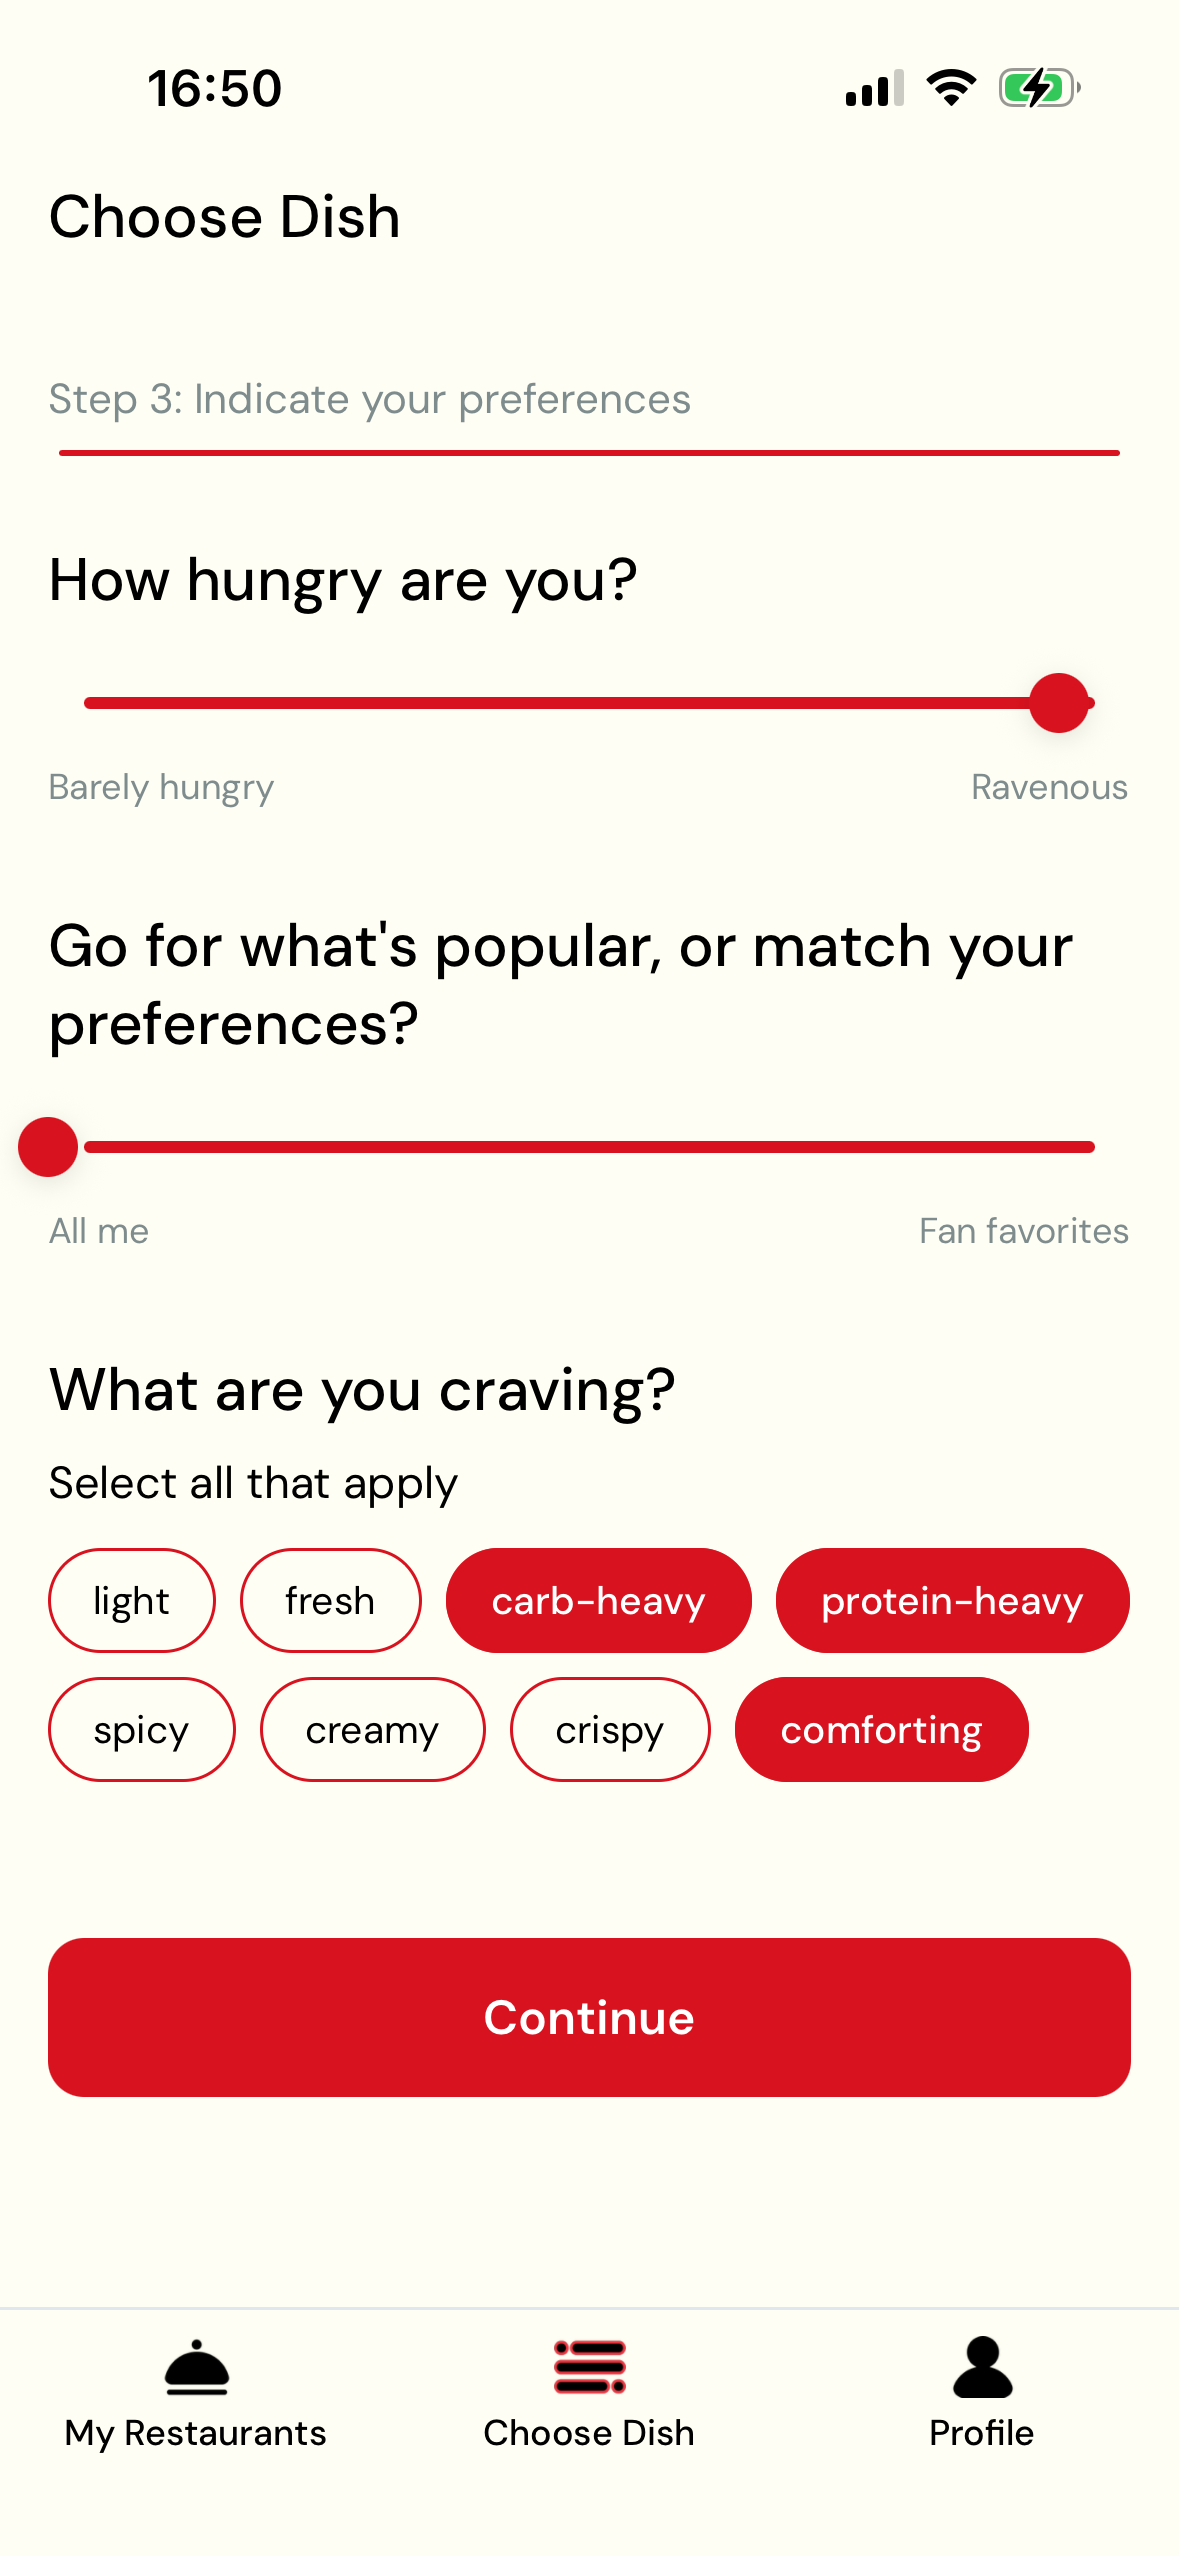
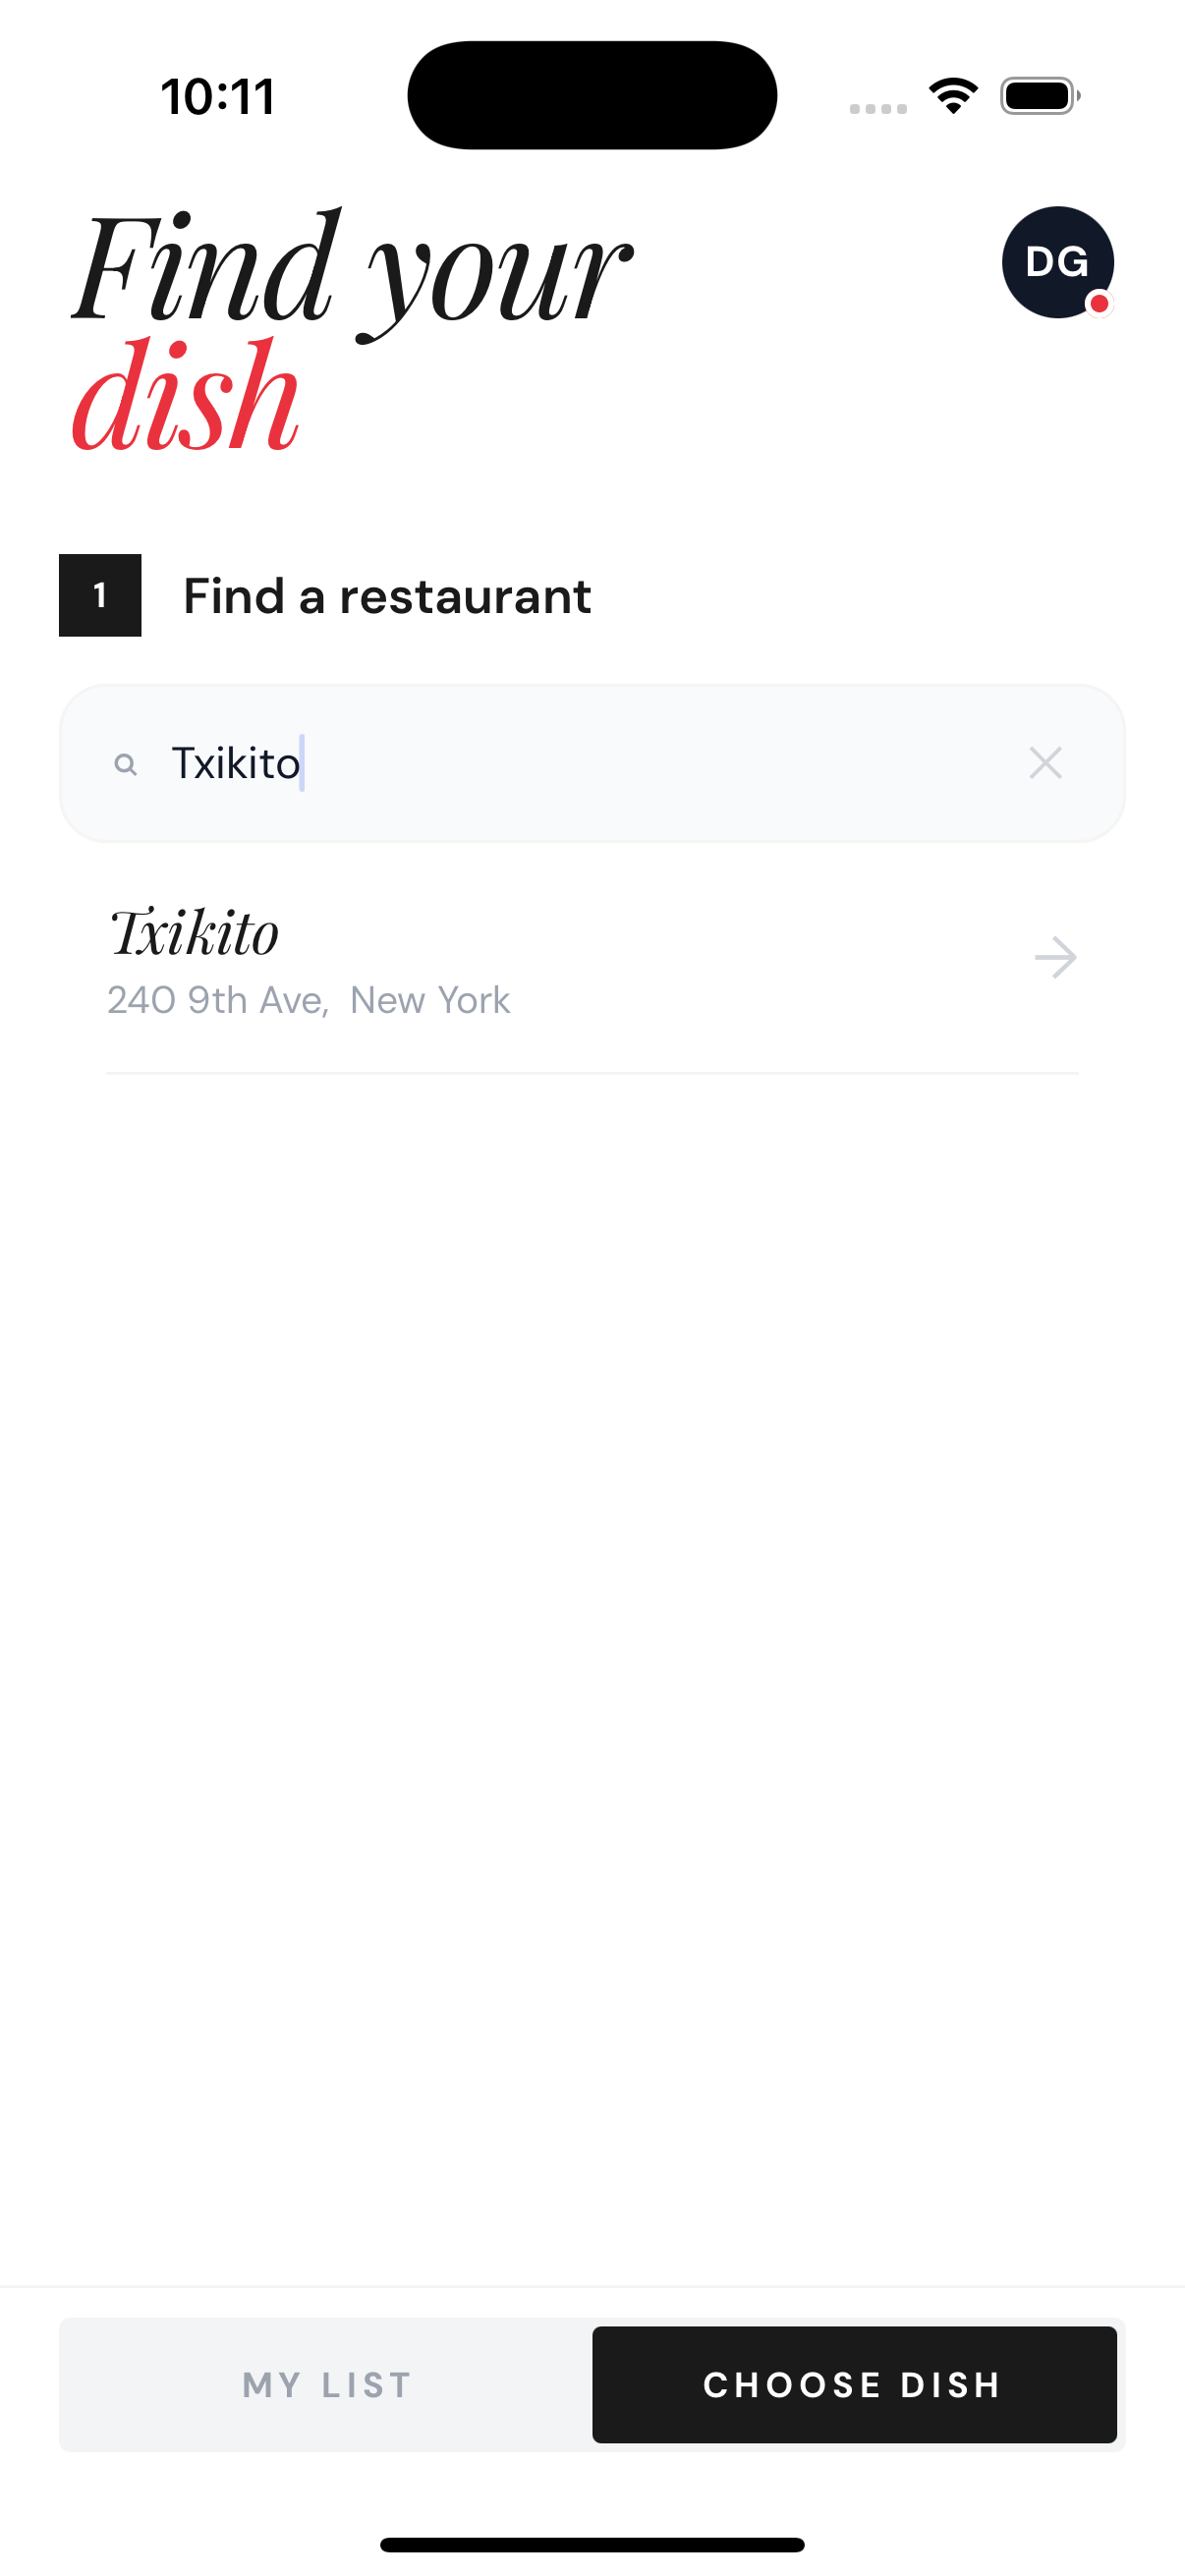
Menuto: rewrite project page with new content, screenshots, and iPhone mockups
New content from detailed writeup: agent-first recommendation engine,
5-stage pipeline, research foundations, key technical decisions, and
optimization work. 9 new screenshots in CSS iPhone bezels.

diff --git a/app/project/[slug]/page.tsx b/app/project/[slug]/page.tsx
@@ -13,6 +13,7 @@ type Section =
   | { type: 'pullquote'; text: string }
   | { type: 'image'; src: string; alt: string; caption?: string; aspect?: string }
   | { type: 'images'; items: { src: string; alt: string; caption?: string }[]; aspect?: string }
+  | { type: 'phones'; items: { src: string; alt: string; caption?: string }[]; label?: string }
   | { type: 'stats'; items: { value: string; label: string }[] }
   | { type: 'list'; label: string; items: string[] }
   | { type: 'subheader'; text: string; id?: string }
@@ -131,32 +132,31 @@ const PROJECTS: Record<string, Project> = {
     slug: 'menuto',
     no: '03',
     name: 'Menuto',
-    tagline: 'A full-stack AI dish recommendation app — solo-built end to end. Tell it your restaurants and taste preferences, it tells you what to order. Fully functional, deployed to TestFlight.',
+    tagline: 'Personalized restaurant dish recommendations powered by an LLM agent that learns your taste over time. Solo-built end to end: product, design, React Native frontend, FastAPI backend, and deployment.',
     year: '2024',
     role: 'Solo — Product · Design · Full-Stack',
     duration: 'Personal Project · End-to-End Ownership',
-    tools: 'React Native · Expo · FastAPI · OpenAI GPT-4o · Supabase · PostgreSQL · Google Places API · Tesseract OCR',
+    tools: 'React Native · Expo 53 · FastAPI · Google Gemini 2.5 Flash · Supabase · PostgreSQL · Google Places API',
     accentColor: '#D8131F',
     tags: ['Full-Stack', 'AI', 'Mobile'],
     icon: '/menuto-icon.png',
     externalLink: { href: 'https://github.com/defnegenc/menuto', label: 'View on GitHub ↗' },
-    secondaryLink: { href: 'https://testflight.apple.com', label: 'TestFlight ↗' },
     sections: [
       {
         type: 'text',
-        label: 'The Idea',
-        body: 'Restaurant reviews tell you where to eat. Nothing tells you what to order — especially at a place you\'ve never been. I wanted an app that knows your taste profile, browses the actual menu, and surfaces the right dishes for you specifically. So I built it, entirely solo: product vision, design, React Native frontend, FastAPI backend, database schema, LLM integration, and deployment.',
+        label: 'The Problem',
+        body: 'You\'re at a restaurant. You don\'t know what to order. Reviews tell you where to eat, but nothing tells you what to order once you\'re there. Menuto reads the menu, understands your preferences, and picks dishes for you, with personal explanations like "You mentioned you\'re craving something rich, and the reviewers specifically call out the truffle cream on this one." The more you use it, the smarter it gets.',
       },
       {
         type: 'pullquote',
-        text: 'I\'m always indecisive about what to order at restaurants. So I solved my own problem.',
+        text: 'Rate a dish, and the system learns not just that you liked it, but why, extracting taste signals from your feedback text and adjusting future recommendations accordingly.',
       },
       {
         type: 'stats',
         items: [
-          { value: '2', label: 'Codebases: FastAPI backend + React Native app' },
-          { value: '3', label: 'Tabs: My Restaurants, Choose Dish, Profile' },
-          { value: '60–80%', label: 'LLM cost reduction via model + prompt optimization' },
+          { value: '8', label: 'Signal sources per recommendation' },
+          { value: '5', label: 'Pipeline stages: parse → filter → enrich → select → learn' },
+          { value: '2', label: 'Codebases: FastAPI + React Native' },
           { value: '0', label: 'Team members — fully solo' },
         ],
       },
@@ -165,56 +165,84 @@ const PROJECTS: Record<string, Project> = {
         text: 'The App',
       },
       {
-        type: 'images',
-        aspect: '9/19.5',
+        type: 'phones',
+        label: 'Search, browse, and save restaurants. Tap Choose Dish to start the recommendation flow.',
         items: [
-          { src: '/addrestaurants.PNG', alt: 'Add Restaurants screen', caption: 'Add restaurants' },
-          { src: '/restaurantdetailscreen2.PNG', alt: 'Restaurant menu', caption: 'Browse menu' },
-          { src: '/choosedish1.PNG', alt: 'Choose Dish preferences', caption: 'Set preferences' },
+          { src: '/choosedish1.png', alt: 'Find your dish — search', caption: 'Search for a restaurant' },
+          { src: '/choosedish2.png', alt: 'Restaurant search results', caption: 'Find by name or location' },
+          { src: '/restaurantdetailscreen.png', alt: 'Restaurant detail with menu', caption: 'Browse the full menu' },
         ],
       },
       {
-        type: 'text',
-        label: 'User Flow',
-        body: 'Add up to 3 restaurants from Google Places (location-aware) → browse each restaurant\'s full menu, filtered by course (All / Starter / Main / Dessert), and save favorite dishes → open Choose Dish, confirm the restaurant and menu, then indicate preferences — how hungry you are, how much you want popular vs. personalized picks, and what you\'re craving (light, fresh, carb-heavy, protein-heavy, spicy, creamy, crispy, comforting) → AI loads your recommendations.',
+        type: 'phones',
+        label: 'Set your mood, cravings, hunger level, and how adventurous you\'re feeling. The agent uses all of it.',
+        items: [
+          { src: '/choosedish3.png', alt: 'Preference sliders', caption: 'Hunger and taste sliders' },
+          { src: '/choosedish4.png', alt: 'Craving and dining style', caption: 'Cravings and dining context' },
+          { src: '/dishesloading.png', alt: 'Agent thinking', caption: 'Browsing the kitchen' },
+        ],
       },
       {
-        type: 'images',
-        aspect: '9/19.5',
+        type: 'phones',
+        label: 'Get personalized picks with explanations, select what you\'re ordering, then rate after your meal.',
         items: [
-          { src: '/choosedish2.PNG', alt: 'Craving selector', caption: 'Craving chips' },
-          { src: '/myrestaurants.PNG', alt: 'My Restaurants', caption: 'Saved restaurants' },
-          { src: '/profiletop.PNG', alt: 'Profile', caption: 'Taste profile' },
+          { src: '/chosendishes.png', alt: 'Recommended dishes', caption: 'Your picks with reasons' },
+          { src: '/ratedishes.png', alt: 'Rate your dishes', caption: 'Rate and save favorites' },
+          { src: '/Your-Restaurants.png', alt: 'Saved restaurants', caption: 'Your restaurant list' },
         ],
       },
       {
         type: 'subheader',
-        text: 'The AI Pipeline',
+        text: 'The Recommendation Engine',
       },
       {
         type: 'text',
-        label: 'Menu Parsing',
-        body: 'The FastAPI backend accepts a menu image, URL, or raw text. Images go through Tesseract OCR; all inputs are structured by GPT-4o (vision) or GPT-4o-mini (text) into a typed JSON array: dish name, description, price, course category, ingredients, and dietary tags. The same `/upload-menu` endpoint handles all three input types via content-type detection. Low-confidence parses surface a user-correction flow rather than silently passing bad data downstream.',
+        label: 'Agent-First Architecture',
+        body: 'Rather than rigid scoring formulas, a Gemini agent receives all available signals about the user and reasons about what to recommend. An earlier version used 10 hand-tuned scoring components (personal taste: 0.30, sentiment: 0.17, etc.). The weights were identical for everyone and couldn\'t reason about context. A user who "looked at a dish 3 times without ordering" was scored the same as someone who "viewed it once." The agent sees the flag LOOKED AT BUT NEVER ORDERED and can reason about why. It also handles meal composition (don\'t recommend 3 pasta dishes) that pointwise scoring fundamentally cannot.',
       },
       {
         type: 'text',
-        label: 'Cost Optimization',
-        body: 'Initially used GPT-4 across all calls. After the first working build, I profiled the cost per request and systematically reduced it: switched text-based parsing to GPT-4o-mini, added max_tokens caps (300–1,500 depending on call type), and reduced the recommendation set from 8 to 5. Total cost reduction: 60–80% with no perceptible quality loss.',
+        label: 'The Pipeline',
+        body: 'Stage 1: Data gathering from 8 sources: parsed menu items, Google Places reviews (cached 14 days), review-based dish popularity via mention frequency, cross-user order counts, past ratings, behavioral signals (views/orders/favorites), Gemini-extracted taste keywords from feedback text, and embedding-based taste similarity (cosine similarity between the user\'s taste profile vector and each dish description, computed in 2 batch API calls). Stage 2: Dietary filtering with LLM-generated flags, explicit instructions to catch hidden ingredients (anchovy in Caesar dressing, fish sauce in Pad Thai, parmesan in pesto). Stage 3: Signal enrichment as readable flags: MATCHES YOUR TASTE, POPULAR (60%), WELL-REVIEWED. Stage 4: Agent selection with the full user narrative. Stage 5: Feedback loop where Gemini extracts taste signals from free-text ratings.',
+      },
+      {
+        type: 'text',
+        label: 'Research Foundations',
+        body: 'This approach was informed by Microsoft\'s RecAI framework (Zhao et al., ACM Web Conference 2024), the "LLM-as-brain, traditional-models-as-tools" pattern where traditional signals handle candidate generation and the LLM handles final reasoning. The serendipity slot (reserving one recommendation for something outside the user\'s usual picks) draws from the SERAL paper on filter bubble mitigation (Feb 2025). The implicit negative feedback model follows Hu, Koren & Volinsky\'s foundational work on collaborative filtering for implicit feedback datasets.',
       },
       {
         type: 'subheader',
-        text: 'Engineering Decisions',
+        text: 'Key Decisions',
       },
       {
         type: 'list',
-        label: 'Technical Highlights',
+        label: 'Why These Choices',
         items: [
-          'Mixed navigation — state-machine for top-level transitions (sign-in → onboarding → main app), React Navigation tabs only for the inner My Restaurants / Choose Dish / Profile views.',
-          'Zustand state management — typed slices for user preferences, current menu session, and recommendation state; no prop-drilling across screens.',
-          'Location-aware restaurant search — debounced Google Places autocomplete (300ms) with GPS; graceful degradation to city-level if permission denied.',
-          'Supabase/PostgreSQL schema — user preference vectors, dish favorites per restaurant, and restaurant menu cache; structured so ratings and preferences update asynchronously.',
-          'Dual AI models — GPT-4o vision for photo menus (richer context needed), GPT-4o-mini for text/URL parsing (cost-efficient, output quality equivalent).',
+          'Gemini embeddings over keyword matching — a user who likes "rich, umami, slightly spicy" food matches a miso-glazed dish even though no keywords overlap. Two API calls total: one for the taste profile, one batch for all candidates.',
+          'Supabase Auth over Clerk — cost. Supabase Auth is free (50k MAUs) and was already in the stack. Migration involved rewriting JWT verification from RS256 (Clerk JWKS) to HS256 (Supabase JWT secret).',
+          'Google review caching (14 days) — the Places API returns max 5 reviews on their free tier (1,000 calls/month). First request takes ~2 seconds, subsequent requests are instant. From 5 reviews, Gemini extracts 8-15 dish mentions with sentiment.',
+          'Thompson Sampling for signal weighting — Beta priors per scoring signal per user learn which signal types best predict each user\'s satisfaction over time, activating after ~10+ ratings.',
+          'Tab persistence via opacity: 0 / pointerEvents: none — menu parsing progress survives tab switches and restaurant detail navigation, instead of conditional rendering which would destroy state.',
         ],
+      },
+      {
+        type: 'subheader',
+        text: 'Optimization',
+      },
+      {
+        type: 'text',
+        label: 'Codebase Cleanup',
+        body: 'Reduced the codebase from ~15,000 lines of mixed SQLAlchemy + Clerk + OpenAI references + 90 print-statement debugging to a clean Supabase + Gemini stack. Deleted 12 dead files, removed 3 dead routers, consolidated 6 auth screens into 1, split 2 screens over 1,500 lines into sub-components.',
+      },
+      {
+        type: 'text',
+        label: 'LLM Cost',
+        body: 'Menu parsing uses a single Gemini call per URL (previously per-section). Review enrichment processes all 5 reviews in one batch call (previously per-review). The agent makes one call per recommendation request. Embedding similarity is 2 calls total (not per-dish). All results are cached in Supabase.',
+      },
+      {
+        type: 'text',
+        label: 'Cold Start',
+        body: 'New users with no history get recommendations weighted toward cross-user popularity and review sentiment rather than personal taste. The free-text mood input ("I\'m feeling adventurous") gives the agent rich context even for first-time users.',
       },
     ],
   },
@@ -896,6 +924,58 @@ function SectionBlock({ section, accent }: { section: Section; accent: string })
         </div>
       )
     }
+
+    case 'phones':
+      return (
+        <div>
+          {section.label && (
+            <p style={{ fontSize: '0.95rem', lineHeight: 1.7, color: 'var(--ink-dim)', marginBottom: '1.5rem', maxWidth: 700 }}>
+              {section.label}
+            </p>
+          )}
+          <div style={{ display: 'flex', justifyContent: 'center', gap: 'clamp(1rem, 3vw, 2.5rem)', flexWrap: 'wrap' }}>
+            {section.items.map((item, i) => (
+              <div key={i} style={{ display: 'flex', flexDirection: 'column', alignItems: 'center', gap: '0.75rem' }}>
+                <div style={{
+                  width: 'clamp(160px, 22vw, 220px)',
+                  background: '#000',
+                  borderRadius: 'clamp(24px, 3.3vw, 36px)',
+                  padding: 'clamp(6px, 0.8vw, 10px)',
+                  boxShadow: '0 8px 40px rgba(0,0,0,0.18), 0 2px 8px rgba(0,0,0,0.12)',
+                  position: 'relative' as const,
+                }}>
+                  {/* Dynamic Island */}
+                  <div style={{
+                    position: 'absolute' as const,
+                    top: 'clamp(8px, 1.1vw, 13px)',
+                    left: '50%',
+                    transform: 'translateX(-50%)',
+                    width: 'clamp(52px, 7vw, 72px)',
+                    height: 'clamp(14px, 1.9vw, 20px)',
+                    background: '#000',
+                    borderRadius: 999,
+                    zIndex: 2,
+                  }} />
+                  {/* Screen */}
+                  <div style={{
+                    borderRadius: 'clamp(18px, 2.5vw, 28px)',
+                    overflow: 'hidden',
+                    position: 'relative' as const,
+                    aspectRatio: '9/19.5',
+                  }}>
+                    <Image src={item.src} alt={item.alt} fill style={{ objectFit: 'cover' }} />
+                  </div>
+                </div>
+                {item.caption && (
+                  <div style={{ ...mono, fontSize: '0.68rem', color: 'var(--ink-dim)', textAlign: 'center' as const }}>
+                    {item.caption}
+                  </div>
+                )}
+              </div>
+            ))}
+          </div>
+        </div>
+      )
 
     default:
       return null